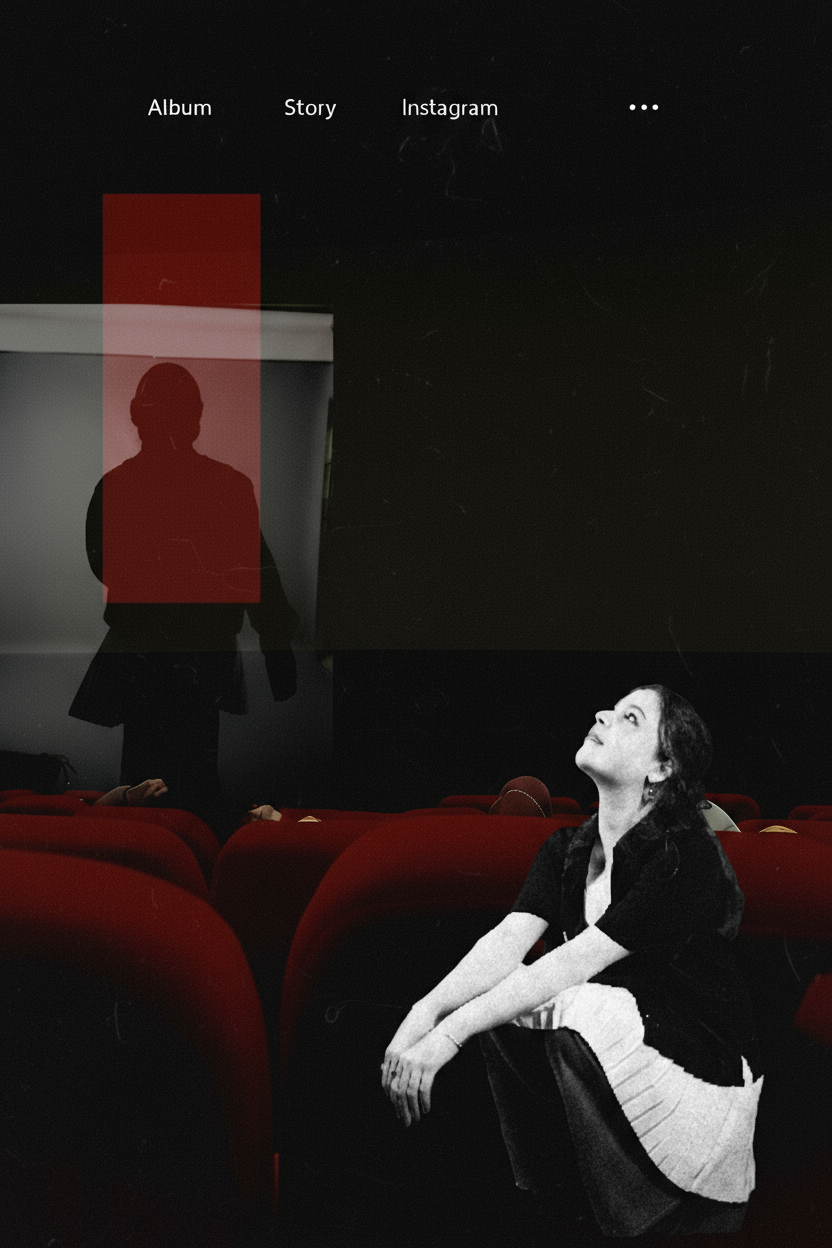
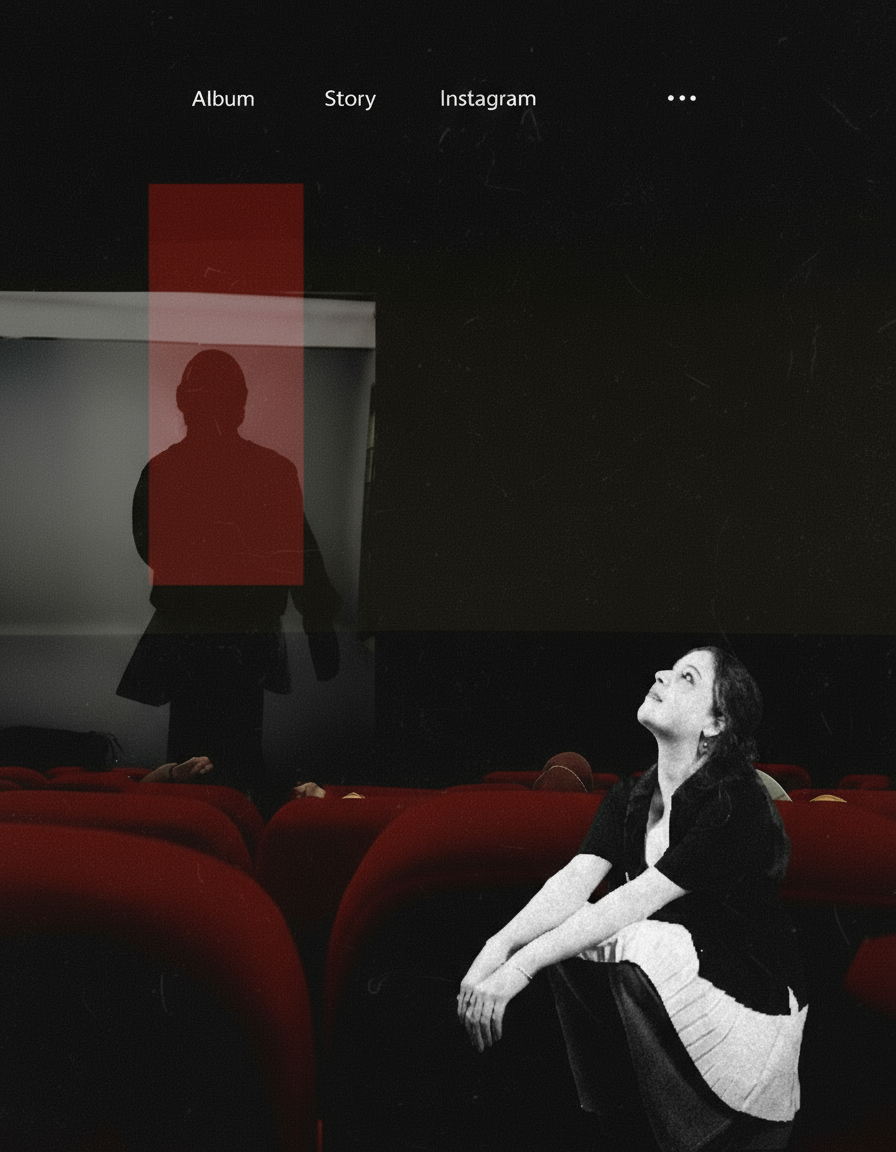
Extend hero section for desktop/tablet

diff --git a/src/components/Hero.tsx b/src/components/Hero.tsx
@@ -6,7 +6,7 @@ import heroMixedMedia from "@/assets/hero-mixed-media.jpg";
 const Hero = () => {
   return <div>
       {/* Section 1: Hero Slice */}
-      <section className="hero-slice relative h-[calc(35vh+3cm)] md:h-[calc(45vh+3cm)] lg:h-[calc(55vh+3cm)] xl:h-[calc(65vh+3cm)] overflow-hidden">
+      <section className="hero-slice relative h-[calc(35vh+3cm)] md:h-[calc(70vh+3cm)] lg:h-[calc(80vh+3cm)] xl:h-[calc(85vh+3cm)] overflow-hidden">
         <img src={heroMixedMedia} alt="Mixed media composition with professional portrait" className="absolute inset-0 w-full h-full object-cover object-center" />
         <div className="absolute inset-0 bg-gradient-to-b from-midnight-blue/30 via-midnight-blue/50 to-midnight-blue/70"></div>
         
